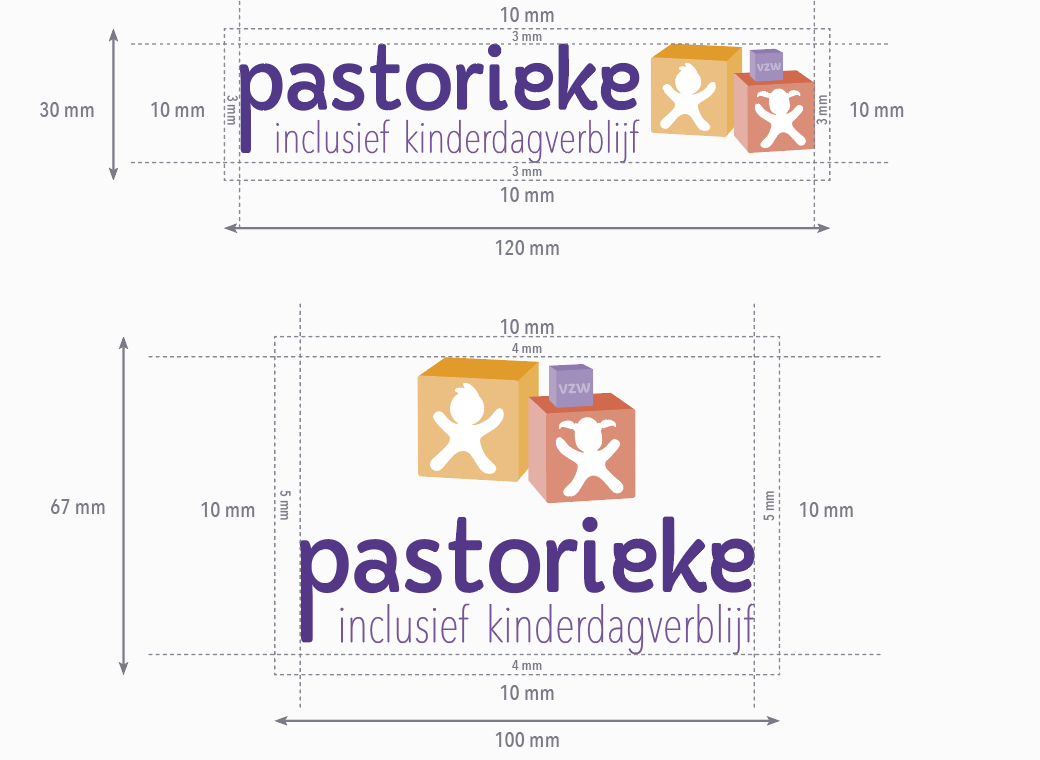
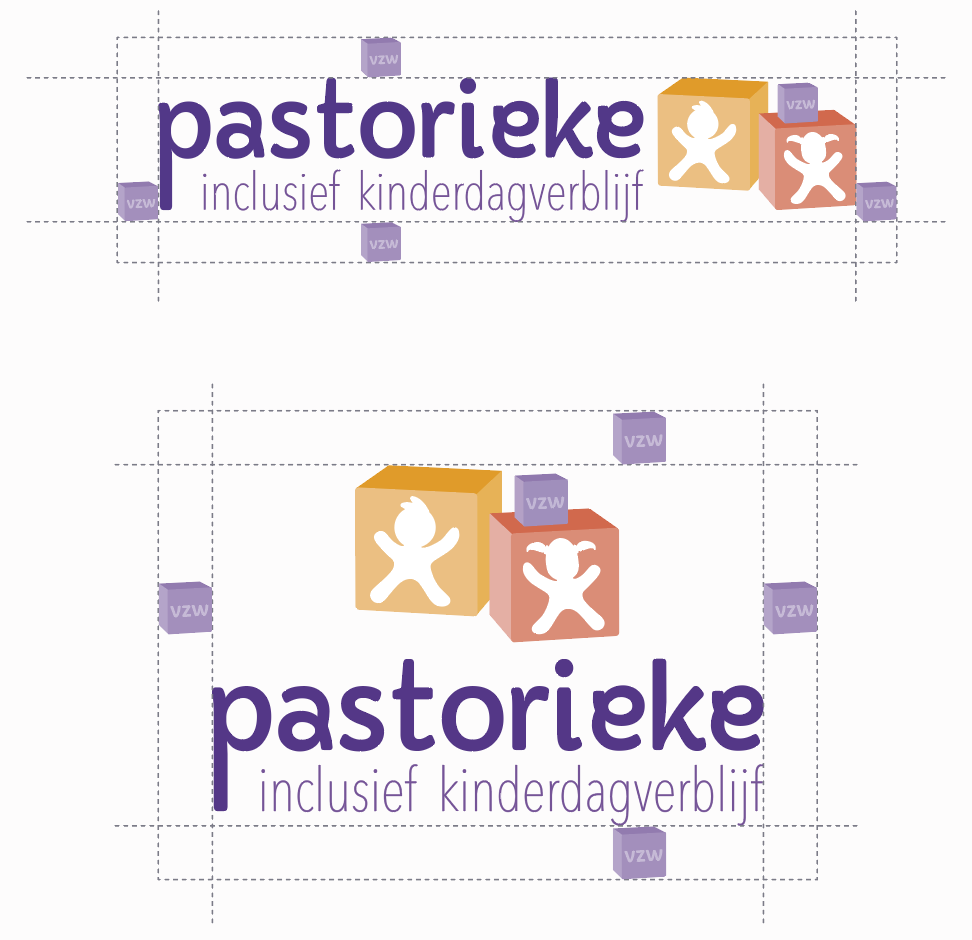
Push

diff --git a/pages/3_logo.html b/pages/3_logo.html
@@ -34,7 +34,7 @@ title: Logo
     <strong>Respecteer daarom rondom het logo steeds voldoende witruimte.</strong> We bepalen de aangewezen witruimtes en dit mag niet verandert worden.
 </p>   
 
-<img class="child" src="" alt="De afmetingen van het logo" width="80%">
+<img class="child" src="images/Afmetingen.png" alt="De afmetingen van het logo" width="80%">
 <p> <strong>Het logo mag in geen geval aangepast worden.</strong>
     Het logo mag niet verbreden of versmallen, roteren of op enige andere manier vervormen. 
     Plaats het logo nooit in een doorlopende tekst. 
